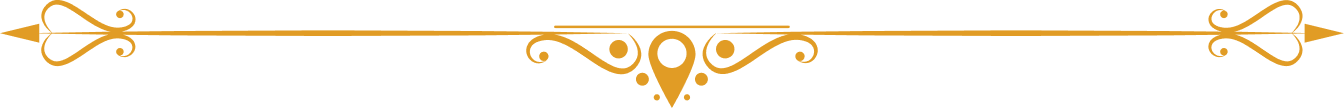
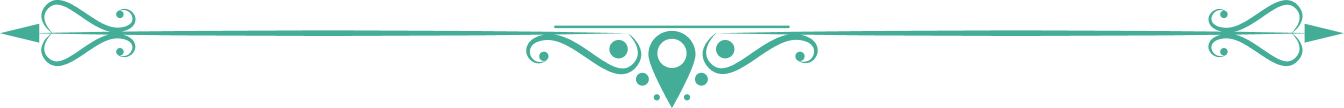
Brand and UI updates: navy sections, CTA tokens, map pins, price badge, blossoms
- Apply #003782 to Amenities block, Footer, SaveNowTravelLater strip, Paradise band, AboutPackage header
- Add global cta/cta-dark tokens and Button color surface for reserve links
- Map: Hyatt pin and list card use #003782; secondary pins/chips match primary teal; list cards #EEF5F4; remove Zilara logo from card
- PriceBadge: navy fill, ONLY ribbon styling, shadows on circle and ribbon
- Paradise headline typography aligned with AboutPackage; Hero blossom overlay removed; blossoms on home-bttm only
- Theme: accent/gold token tweaks; styles for bg-cta; remove duplicate canvas id

Made-with: Cursor

Changed region(s): [[0.0, 0.0, 1.0, 0.9444]]

diff --git a/src/components/MapSection.tsx b/src/components/MapSection.tsx
@@ -123,11 +123,11 @@ const mapLocations: MapLocation[] = [
   },
 ];
 
-/** Match tailwind `primary` / `primary-dark` / `accent` (vars.css). */
-const MAP_PIN_MAIN = '#369082';
-const MAP_PIN_MAIN_ACTIVE = '#44AD98';
-const MAP_PIN_SECONDARY = '#E29A28';
-const MAP_PIN_SECONDARY_ACTIVE = '#e9b25a';
+/** Main resort (Hyatt) pin — brand navy; secondary pins use primary/accent teal. */
+const MAP_PIN_MAIN = '#003782';
+const MAP_PIN_MAIN_ACTIVE = '#003782';
+const MAP_PIN_SECONDARY = '#44AD98';
+const MAP_PIN_SECONDARY_ACTIVE = '#44AD98';
 
 function createMapPinIcon(location: MapLocation, isHighlighted: boolean) {
   const isMain = location.isMain;
@@ -140,8 +140,8 @@ function createMapPinIcon(location: MapLocation, isHighlighted: boolean) {
       : MAP_PIN_SECONDARY;
   const glow = isHighlighted
     ? isMain
-      ? 'filter: drop-shadow(0 0 10px rgba(68,173,152,0.9)) drop-shadow(0 4px 8px rgba(0,0,0,0.18));'
-      : 'filter: drop-shadow(0 0 10px rgba(233,178,90,0.75)) drop-shadow(0 4px 8px rgba(0,0,0,0.18));'
+      ? 'filter: drop-shadow(0 0 10px rgba(0,55,130,0.9)) drop-shadow(0 4px 8px rgba(0,0,0,0.18));'
+      : 'filter: drop-shadow(0 0 10px rgba(68,173,152,0.9)) drop-shadow(0 4px 8px rgba(0,0,0,0.18));'
     : 'filter: drop-shadow(0 3px 6px rgba(0,0,0,0.2));';
   const scale = isHighlighted ? 1.12 : 1;
   const w = 36 * scale;
@@ -338,6 +338,7 @@ export function MapSection({ children }: MapSectionProps) {
                 <div className="flex min-h-0 flex-1 flex-col gap-4 lg:overflow-y-auto lg:overflow-x-visible lg:overscroll-contain lg:py-1 lg:pr-2">
                   {mapLocations.map((location) => {
                     const isOn = highlightId === location.id;
+                    const isMainLoc = location.isMain;
                     return (
                       <article
                         key={location.id}
@@ -360,33 +361,34 @@ export function MapSection({ children }: MapSectionProps) {
                             );
                           }
                         }}
-                        className={`cursor-pointer rounded-2xl border-2 p-4 text-left transition-all duration-200 outline-none focus-visible:ring-2 focus-visible:ring-primary focus-visible:ring-offset-2 focus-visible:ring-offset-white ${
-                          isOn
-                            ? 'border-primary bg-primary/10 shadow-md ring-2 ring-primary/30'
-                            : 'border-gray-200 bg-gray-50 hover:border-gray-300 hover:bg-white'
+                        className={`cursor-pointer rounded-2xl border-2 p-4 text-left transition-all duration-200 outline-none focus-visible:ring-2 focus-visible:ring-offset-2 focus-visible:ring-offset-white ${
+                          isMainLoc
+                            ? isOn
+                              ? 'border-[#003782] bg-[#003782]/10 shadow-md ring-2 ring-[#003782]/30 focus-visible:ring-[#003782]'
+                              : 'border-gray-200 bg-[#EEF5F4] hover:border-[#003782]/25 hover:bg-white focus-visible:ring-[#003782]'
+                            : isOn
+                              ? 'border-primary bg-primary/10 shadow-md ring-2 ring-primary/30 focus-visible:ring-primary'
+                              : 'border-gray-200 bg-[#EEF5F4] hover:border-gray-300 hover:bg-white focus-visible:ring-primary'
                         }`}
                       >
                         <div className="flex items-start gap-3">
                           <span
                             className={`mt-0.5 flex h-10 w-10 shrink-0 items-center justify-center rounded-full ${
-                              location.isMain
-                                ? 'bg-primary/15 text-primary-dark'
-                                : 'bg-gold-100 text-gold-800'
-                            } ${isOn ? 'ring-2 ring-primary ring-offset-2 ring-offset-white' : ''}`}
+                              isMainLoc
+                                ? 'bg-[#003782]/15 text-[#003782]'
+                                : 'bg-primary/15 text-primary'
+                            } ${
+                              isOn
+                                ? isMainLoc
+                                  ? 'ring-2 ring-[#003782] ring-offset-2 ring-offset-white'
+                                  : 'ring-2 ring-primary ring-offset-2 ring-offset-white'
+                                : ''
+                            }`}
                             aria-hidden
                           >
                             <MapPin className="h-5 w-5" strokeWidth={2.25} />
                           </span>
                           <div className="min-w-0 flex-1">
-                            {location.isMain ? (
-                              <img
-                                src="home/Zilara-logo.png"
-                                alt=""
-                                className="mb-2 h-8 w-auto max-w-[180px] object-contain sm:h-9"
-                                width={1112}
-                                height={171}
-                              />
-                            ) : null}
                             <h3 className="text-lg font-bold text-gray-900 sm:text-xl">
                               {location.name}
                             </h3>

diff --git a/src/components/ParadiseSection.tsx b/src/components/ParadiseSection.tsx
@@ -20,17 +20,17 @@ export function ParadiseSection() {
                 loading="lazy"
               />
             </div>
-            <h2 className="text-slate-950">
-              <span className="block text-fluid-sm font-bold uppercase tracking-[0.2em] text-primary-dark sm:text-fluid-base">
+            <h2 className="text-slate-800">
+              <span className="block text-fluid-sm font-bold uppercase tracking-tight sm:text-fluid-base">
                 5-DAY/4-NIGHT
               </span>
-              <span className="mt-2 block text-fluid-3xl font-black uppercase leading-[1.05] tracking-tight sm:mt-3 sm:text-fluid-4xl md:text-fluid-5xl">
+              <span className="mt-2 block text-fluid-2xl font-bold uppercase tracking-tight sm:mt-3 md:text-fluid-3xl">
                 BEACHFRONT
               </span>
-              <span className="mt-1 block text-fluid-2xl font-black uppercase leading-tight tracking-tight text-primary-dark sm:text-fluid-3xl md:text-fluid-4xl">
+              <span className="mt-1 block text-fluid-2xl font-bold uppercase tracking-tight md:text-fluid-3xl">
                 RIVIERA CANCUN
               </span>
-              <span className="mt-1 block text-fluid-3xl font-black uppercase leading-[1.05] tracking-tight sm:text-fluid-4xl md:text-fluid-5xl">
+              <span className="mt-1 block text-fluid-2xl font-bold uppercase tracking-tight md:text-fluid-3xl">
                 VACATION
               </span>
             </h2>
@@ -50,7 +50,7 @@ export function ParadiseSection() {
         </div>
       </div>
 
-      <div className="bg-black py-10 sm:py-12 md:py-16 px-4 sm:px-6 -mt-[10px]">
+      <div className="bg-[#003782] py-10 sm:py-12 md:py-16 px-4 sm:px-6 -mt-[10px]">
         <div className="max-w-content mx-auto text-center">
           <h3 className="text-accent text-xl sm:text-2xl font-extrabold uppercase mb-6 sm:mb-8 md:mb-10">
             Ultimate Adults-Only Paradise

diff --git a/src/components/Button.tsx b/src/components/Button.tsx
@@ -6,6 +6,11 @@ export { DUMMY_CTA_HREF } from '../constants';
 interface ButtonProps {
   children?: ReactNode;
   variant?: 'primary' | 'small';
+  /**
+   * Button surface: `brand` uses `primary` / `primary-dark`; `cta` uses global `cta` / `cta-dark` (fixed reserve teal).
+   * Defaults to `cta` when `asCta`, otherwise `brand`.
+   */
+  color?: 'brand' | 'cta';
   className?: string;
   onClick?: () => void;
   /** Renders as &lt;a&gt;. */
@@ -17,20 +22,25 @@ interface ButtonProps {
 export function Button({
   children = 'RESERVE NOW',
   variant = 'primary',
+  color,
   className = '',
   onClick,
   href,
   asCta = false,
 }: ButtonProps) {
   const anchorHref = asCta ? DUMMY_CTA_HREF : href;
+  const surface = color ?? (asCta ? 'cta' : 'brand');
+  const surfaceStyles =
+    surface === 'cta'
+      ? `bg-cta text-white visited:text-white visited:bg-cta hover:bg-cta-dark hover:visited:bg-cta-dark`
+      : `bg-primary text-white visited:text-white visited:bg-primary hover:bg-primary-dark hover:visited:bg-primary-dark`;
 
   const baseStyles = `
     relative overflow-hidden
-    bg-primary text-white text-center font-bold uppercase tracking-wide cursor-pointer
-    visited:text-white visited:bg-primary
+    ${surfaceStyles}
+    text-center font-bold uppercase tracking-wide cursor-pointer
     transition-all duration-300 ease-out
-    hover:bg-primary-dark hover:shadow-xl hover:-translate-y-0.5
-    hover:visited:bg-primary-dark
+    hover:shadow-xl hover:-translate-y-0.5
     active:scale-[0.98] active:translate-y-0
     touch-manipulation shadow-lg
     before:absolute before:inset-0 before:bg-gradient-to-r before:from-transparent before:via-white/20 before:to-transparent

diff --git a/src/components/PriceBadge.tsx b/src/components/PriceBadge.tsx
@@ -22,7 +22,7 @@ const BASE_SIZE = 350;
 export function PriceBadge({
   days = '5-Days / 4-Nights',
   oldPrice = '$5,600',
-  ribbonText = 'DEAL',
+  ribbonText = 'ONLY',
   totalAmount = OFFER_TOTAL_AMOUNT,
   totalLabel = OFFER_TOTAL_LABEL,
   depositLine = OFFER_DEPOSIT_LINE,
@@ -47,10 +47,10 @@ export function PriceBadge({
         }}
       >
         <div
-          className="absolute left-[-15px] top-1/2 z-10 -translate-y-1/2 whitespace-nowrap"
+          className="absolute left-[-15px] top-1/2 z-10 -translate-y-1/2 whitespace-nowrap shadow-[0_10px_30px_-6px_rgba(0,0,0,0.3)]"
           style={{
-            backgroundColor: '#44AD98',
-            color: 'white',
+            backgroundColor: '#ffffff',
+            color: '#000000',
             padding: '8px 16px',
             fontSize: '20px',
             fontWeight: 700,
@@ -60,10 +60,10 @@ export function PriceBadge({
         </div>
 
         <div
-          className="box-border flex h-full w-full flex-col items-center justify-center rounded-full text-white"
+          className="box-border flex h-full w-full flex-col items-center justify-center rounded-full text-white shadow-[0_10px_30px_-6px_rgba(0,0,0,0.3)]"
           style={{
-            backgroundColor: '#000000',
-            border: '12px solid #e9b25a',
+            backgroundColor: '#003782',
+            border: '12px solid #44AD98',
             outline: '8px solid white',
             outlineOffset: '-20px',
             padding: '12px 14px',

diff --git a/tailwind.config.js b/tailwind.config.js
@@ -82,8 +82,11 @@ module.exports = {
         /* Must match src/vars.css --color-primary (#44AD98) for bg-primary / text-primary */
         primary: '#44AD98',
         'primary-dark': '#369082',
-        accent: '#E29A28',
-        'accent-dark': '#815612',
+        /* Reserve CTAs — match vars.css --color-cta* (fixed teal even if `primary` changes) */
+        cta: '#44AD98',
+        'cta-dark': '#369082',
+        accent: '#44AD98',
+        'accent-dark': '#44AD98',
         'color-white-solid': '#ffffff',
         'color-grey-96': '#f5f5f5',
         'color-grey-20': '#333333',
@@ -99,9 +102,9 @@ module.exports = {
           300: '#f8e6c9',
           400: '#f4d8ab',
           500: '#eec686',
-          600: '#e9b25a',
-          700: '#e29a28',
-          800: '#815612',
+          600: '#44AD98',
+          700: '#44AD98',
+          800: '#44AD98',
           900: '#422c09',
           950: '#2d1e06',
         },

diff --git a/src/vars.css b/src/vars.css
@@ -1,6 +1,9 @@
 /* Figma Styles of your File */:root {
-  /* Tailwind `primary` / `bg-primary` — single source for brand teal */
+  /* Tailwind `primary` / `bg-primary` — brand surface (may diverge from CTA) */
   --color-primary: #44AD98;
+  /* Reserve / CTA buttons — fixed teal; keep in sync with tailwind `cta` / `cta-dark` */
+  --color-cta: #44AD98;
+  --color-cta-dark: #369082;
   /* Legacy slot name; same as --color-primary (badges, var() aliases) */
   --rgb-117-53-173-replacement: var(--color-primary);
 
@@ -11,9 +14,9 @@
   --gold-300: #f8e6c9;
   --gold-400: #f4d8ab;
   --gold-500: #eec686;
-  --gold-600: #e9b25a;
-  --gold-700: #e29a28;
-  --gold-800: #815612;
+  --gold-600: #44AD98;
+  --gold-700: #44AD98;
+  --gold-800: #44AD98;
   --gold-900: #422c09;
   --gold-950: #2d1e06;
 

diff --git a/src/components/Hero.tsx b/src/components/Hero.tsx
@@ -2,7 +2,6 @@ import { useState } from 'react';
 import { Play } from 'lucide-react';
 import { PLAY_VIDEO_LABEL, RESORT_VIDEO_MP4_SRC } from '../constants';
 import { BookingCard } from './BookingCard';
-import { HeroBlossomOverlay } from './HeroBlossomOverlay';
 import { Lightbox } from './Lightbox';
 
 export function Hero() {
@@ -11,7 +10,6 @@ export function Hero() {
   return (
     <>
       <section className="relative flex min-h-[500px] flex-col overflow-hidden md:min-h-[600px] lg:min-h-[800px] lg:overflow-visible">
-        <HeroBlossomOverlay />
         {/* Desktop: full-bleed hero (unchanged) */}
         <div
           className="pointer-events-none absolute inset-0 z-0 hidden bg-cover bg-center lg:block"

diff --git a/src/styles.css b/src/styles.css
@@ -370,3 +370,23 @@ img.hero-couple-element {
 .hover\:visited\:bg-primary-dark:visited:hover {
   background-color: rgb(54 144 130 / var(--tw-bg-opacity, 1));
 }
+
+/* CTA / reserve buttons — literal teal (same as tailwind `cta` / vars `--color-cta*`) */
+.bg-cta {
+  --tw-bg-opacity: 1;
+  background-color: #44AD98;
+}
+
+.visited\:bg-cta:visited {
+  --tw-bg-opacity: 1;
+  background-color: #44AD98;
+}
+
+.hover\:bg-cta-dark:hover {
+  --tw-bg-opacity: 1;
+  background-color: rgb(54 144 130 / var(--tw-bg-opacity, 1));
+}
+
+.hover\:visited\:bg-cta-dark:visited:hover {
+  background-color: rgb(54 144 130 / var(--tw-bg-opacity, 1));
+}

diff --git a/src/pages/HomePage.tsx b/src/pages/HomePage.tsx
@@ -1,5 +1,6 @@
 import {
   Hero,
+  HeroBlossomOverlay,
   SubNav,
   Gallery,
   AboutPackage,
@@ -75,12 +76,13 @@ export function HomePage() {
           RESERVE NOW
         </Button>
       </div>
-      <div style={{ backgroundColor: '#F2F4F6' }}>
+      <div style={{ backgroundColor: '#F2F4F6' }} className="relative">
         <img
-          className="w-full"
+          className="relative z-0 block w-full h-auto"
           src="home/home-bttm.png"
           alt="Beach scene"
         />
+        <HeroBlossomOverlay />
       </div>
     </>
   );

diff --git a/src/components/AboutPackage.tsx b/src/components/AboutPackage.tsx
@@ -34,7 +34,7 @@ export function AboutPackage() {
 
         <div className="grid grid-cols-1 md:grid-cols-2 gap-fluid-4">
           <article className="flex flex-col gap-fluid-4">
-            <header className="bg-brand-800 py-2.5 md:py-3 px-4 md:px-5 shadow-md">
+            <header className="bg-[#003782] py-2.5 md:py-3 px-4 md:px-5 shadow-md">
               <h3 className="text-white text-fluid-lg md:text-fluid-xl font-bold text-center uppercase">
                 What you get
               </h3>

diff --git a/src/components/InteriorFooter.tsx b/src/components/InteriorFooter.tsx
@@ -9,10 +9,7 @@ export function InteriorFooter() {
         />
       </div>
 
-      <section
-        className="flex items-center justify-center"
-        style={{ height: '100px', backgroundColor: '#000000' }}
-      >
+      <section className="flex h-[100px] items-center justify-center bg-[#003782]">
         <img src="/home/tag.png" alt="Save Now Travel Later" className="w-[40%] max-w-md" />
       </section>
     </>

diff --git a/src/components/SaveNowTravelLater.tsx b/src/components/SaveNowTravelLater.tsx
@@ -1,9 +1,6 @@
 export function SaveNowTravelLater() {
   return (
-    <section
-      className="flex items-center justify-center"
-      style={{ height: '100px', backgroundColor: '#000000' }}
-    >
+    <section className="flex h-[100px] items-center justify-center bg-[#003782]">
       <img src="/home/tag.png" alt="Save Now Travel Later" className="w-[40%] max-w-md" />
     </section>
   );
